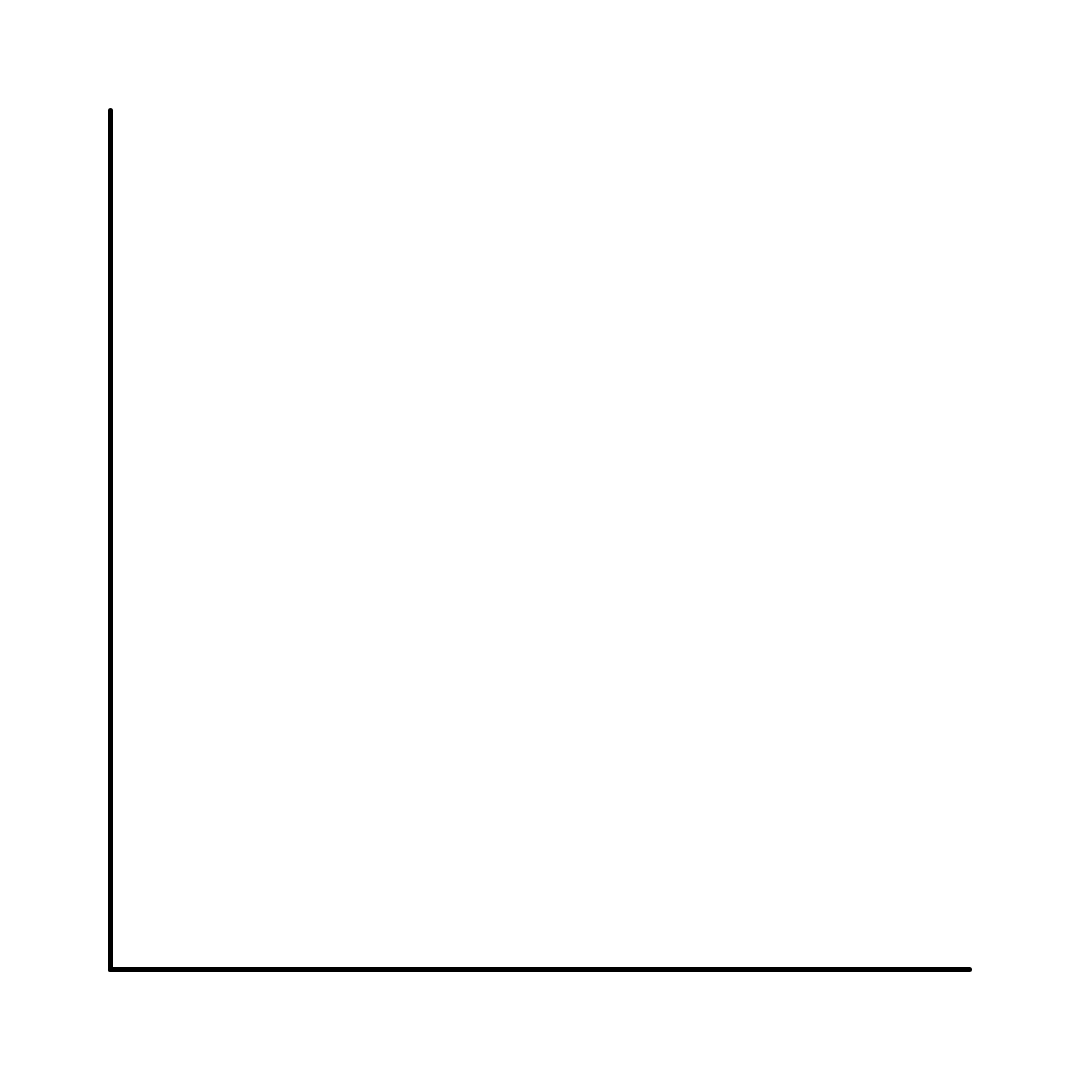
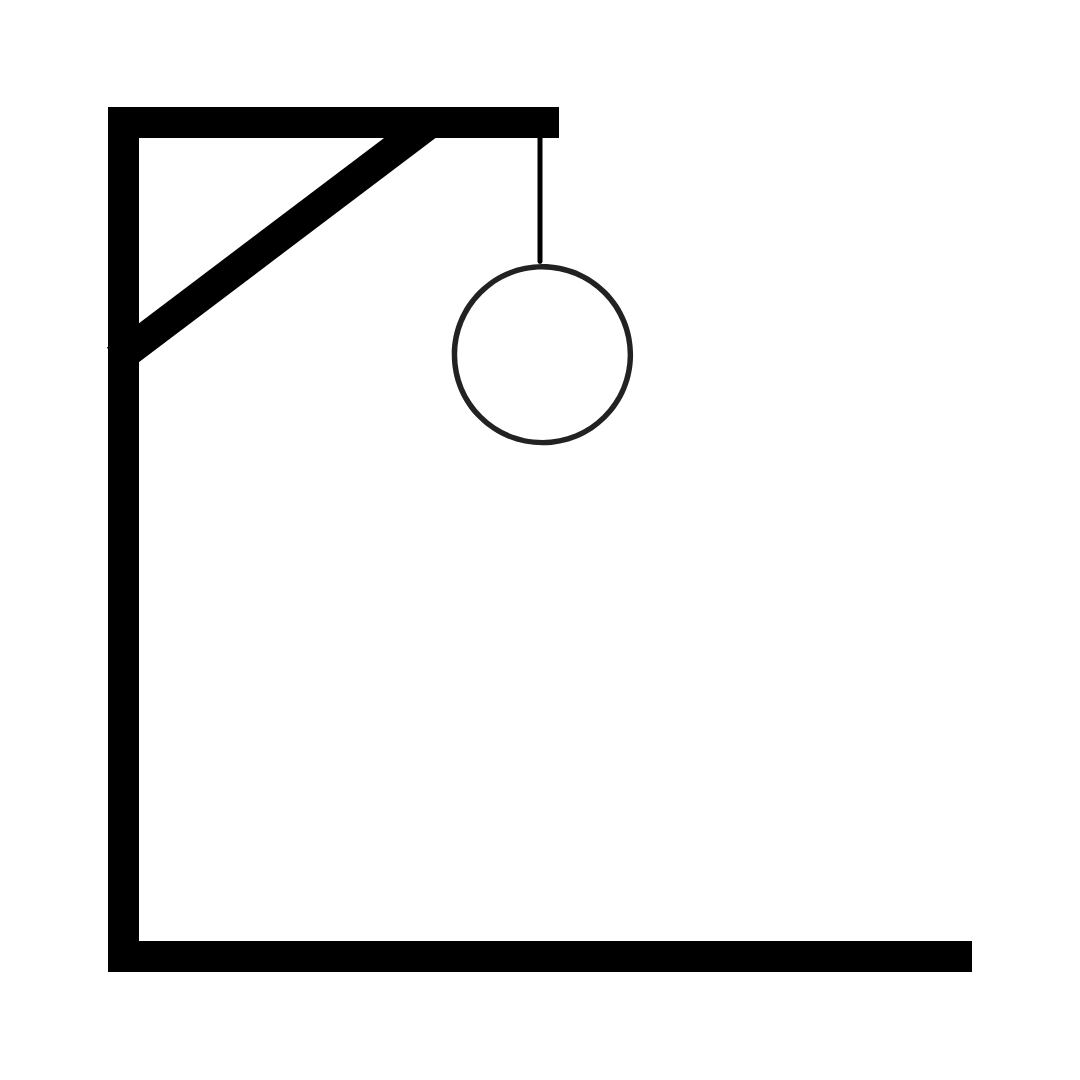
updated images

diff --git a/hangman.js b/hangman.js
@@ -10,7 +10,7 @@ const composers = [
 ];
 
 let answer = '';
-let maxWrong = 10;
+let maxWrong = 7;
 let mistakes = 0;
 let guessed =[];
 let wordStatus = null;
@@ -57,16 +57,17 @@ let updateHangmanPicture = () =>{
 let checkIfGameWon = () => {
     if(wordStatus === answer) {
         document.getElementById('keyboard').innerHTML = 'Congrats, you won!'
-        document.getElementById('hangmanPic').src = "resources2/fireworks.png";
+        document.getElementById('hangmanPic').src ="resources/game-end-img/fireworks.png";
     };
  
 }
 
 let checkIfGameLost = () => {
     if(mistakes === maxWrong) {
+        document.getElementById('hangmanPic').src ="resources/game-end-img/lost.png";
         document.getElementById('keyboard').innerHTML = 'You lost'
         document.getElementById('wordSpotlight').innerHTML = 'The answer was ' + answer;
-    }
+    };
 }
 
 let guessedWord = () => {
@@ -81,7 +82,7 @@ const updateMistakes = () => {
 let reset = () => {
     mistakes = 0;
     guessed = [];
-    document.getElementById('hangmanPic').src = 'resources/1.png';
+    document.getElementById('hangmanPic').src = 'resources/0.png';
 
     randomWord();
     guessedWord();

diff --git a/index.html b/index.html
@@ -12,7 +12,7 @@
     <h1 class="text-center">Hangman</h1>
     <div class="float-right">Wrong Guesses: <span id="mistakes">0 </span>of <span id="maxWrong"></span></div>
     <div class = "text-center w-50 mx-auto">
-        <img class="img-responsive" style = "width: 250px" id="hangmanPic" src="resources/1.png" alt="">
+        <img class="img-responsive" style = "width: 250px" id="hangmanPic" src="resources/0.png" alt="">
         <p>Guess the Composer:</p>
         <p id="wordSpotlight">The word to be guessed goes here</p>
         <div id="keyboard"></div>
